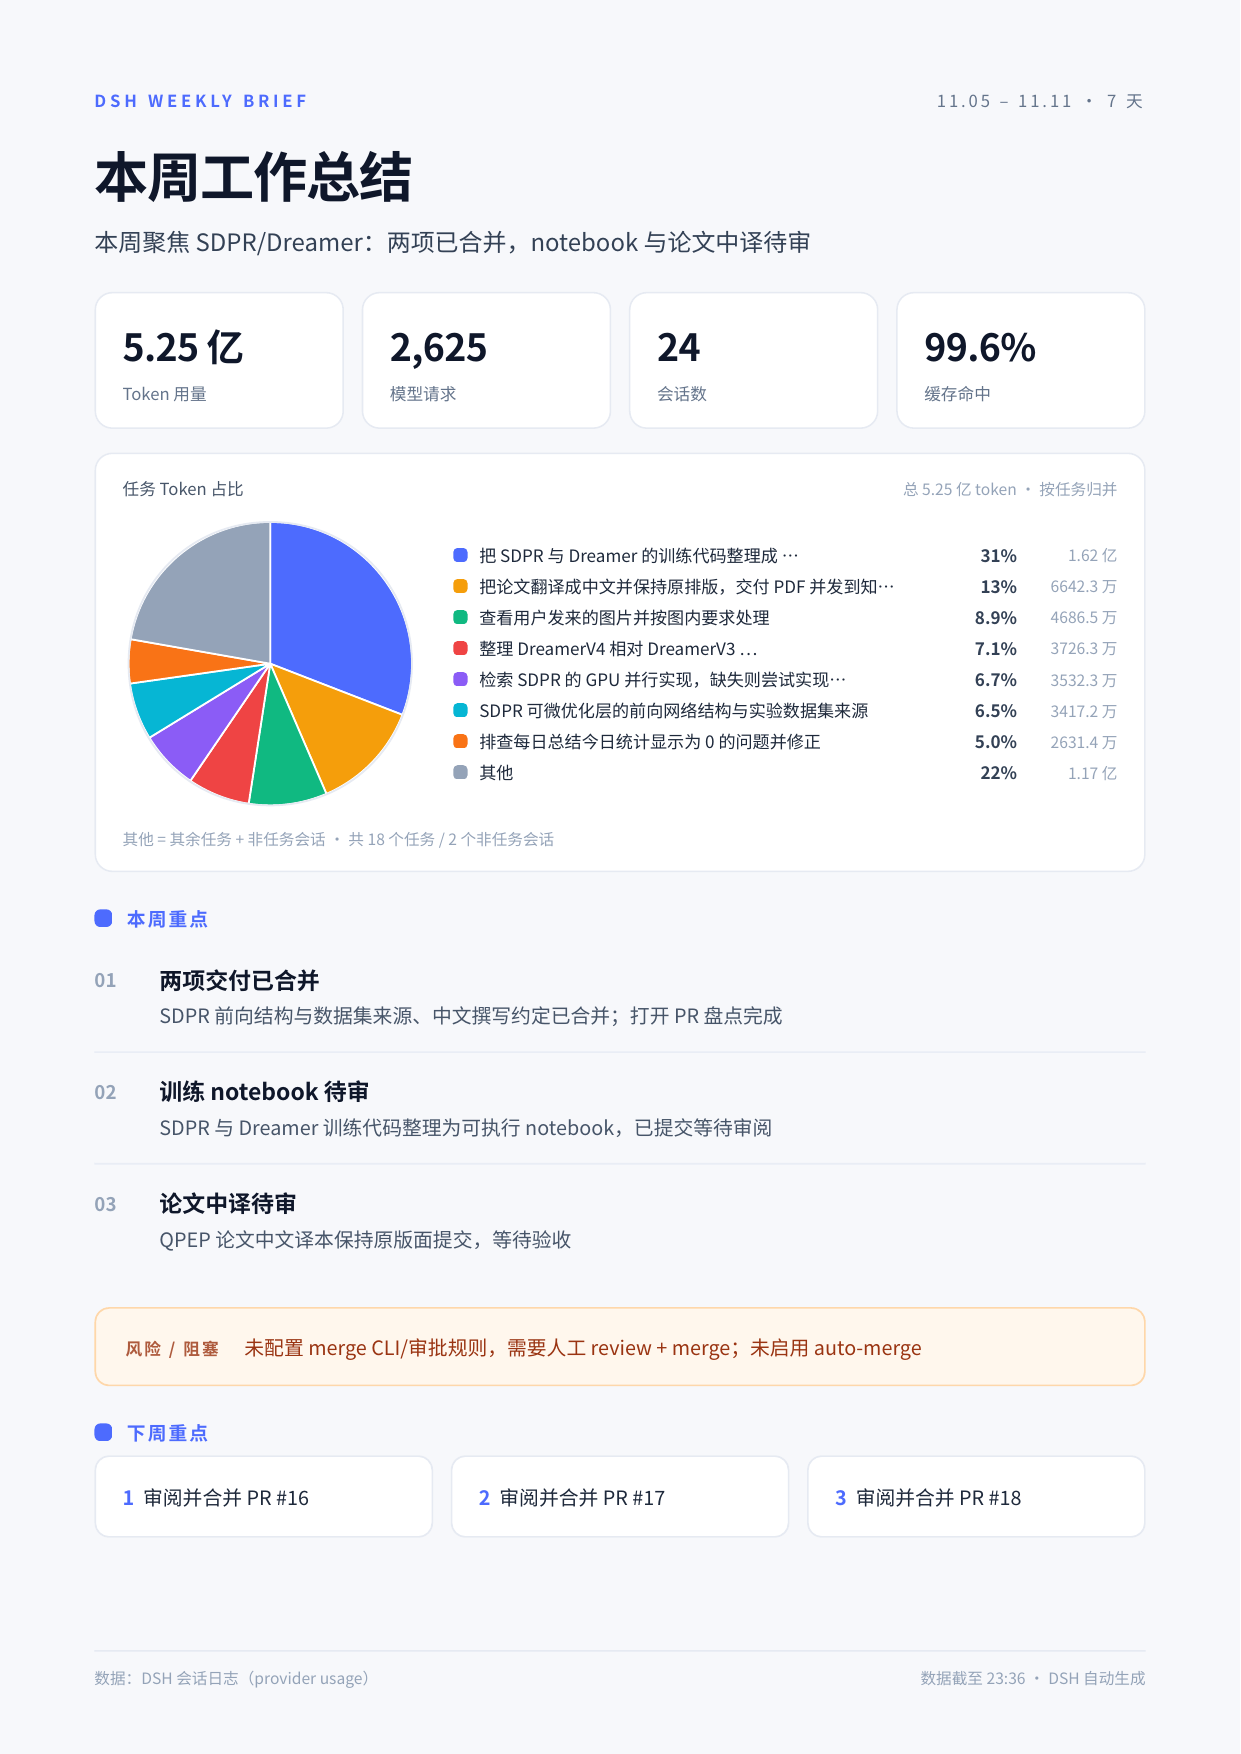
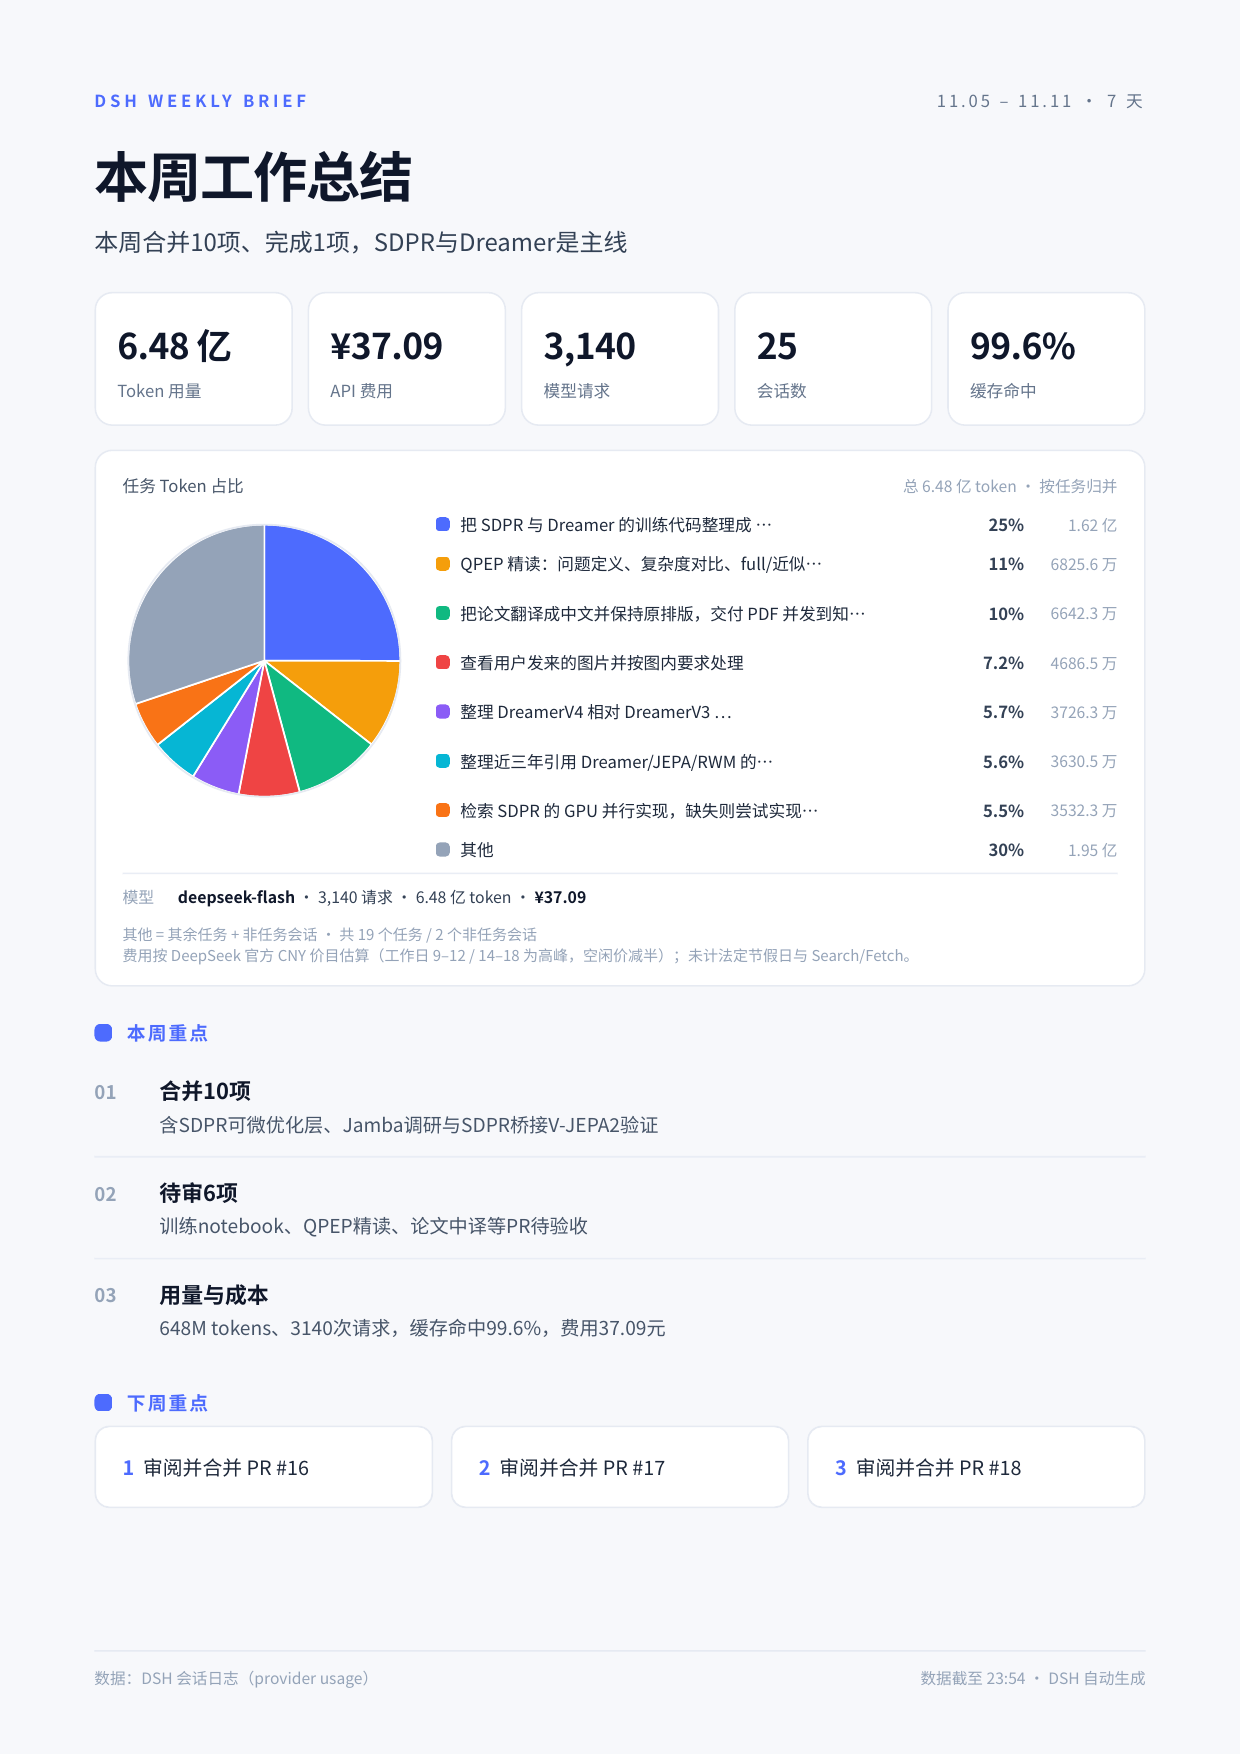
feat(automation): 周报增加 API 费用换算与模型拆分
KPI 增加 API 费用；token 块按模型列出请求/Token/费用。价格用 DeepSeek 官方 CNY 价目（缓存命中/未命中/输出，工作日 9-12/14-18 为高峰），按 step 开始时间判断高峰；缓存兜底无逐模型请求数。风险只取 open 工作项并过滤部署工具类备注。更新 README、after 图和一页说明。

diff --git a/automation/README.md b/automation/README.md
@@ -17,8 +17,13 @@ existing crontab marker keeps working.
   inherited side-conversation history is not counted twice. The dsh-context *Context Insights*
   projection cache (`~/.dsh/storages/session_projcache/sessions/*.json`) is only a fallback:
   the web UI refreshes it on demand, so a cron run can read it stale or empty.
-- **风险 / 阻塞** — taken from blocked work items, or a sentence in a report that asks for a
-  decision.
+- **模型与费用** — the token block lists each model's requests, tokens and estimated CNY cost.
+  Prices come from the official DeepSeek CNY list (`deepseek-flash` / `deepseek-v4-pro`: cache
+  hit, cache miss, output), with peak/off-peak bands (Beijing-time weekdays 09:00–12:00 and
+  14:00–18:00 are peak). Cache writes are billed as misses; public holidays, Search and Fetch
+  are not modeled, so the figure is a list-price estimate.
+- **风险 / 阻塞** — taken from blocked open work items, or a sentence in an open item that asks
+  for a decision.
 - **下周重点** — generated from the open superagent tickets and open pull requests.
 
 The report is rendered as HTML, converted to a one-page A4 PDF with WeasyPrint, rasterized with
